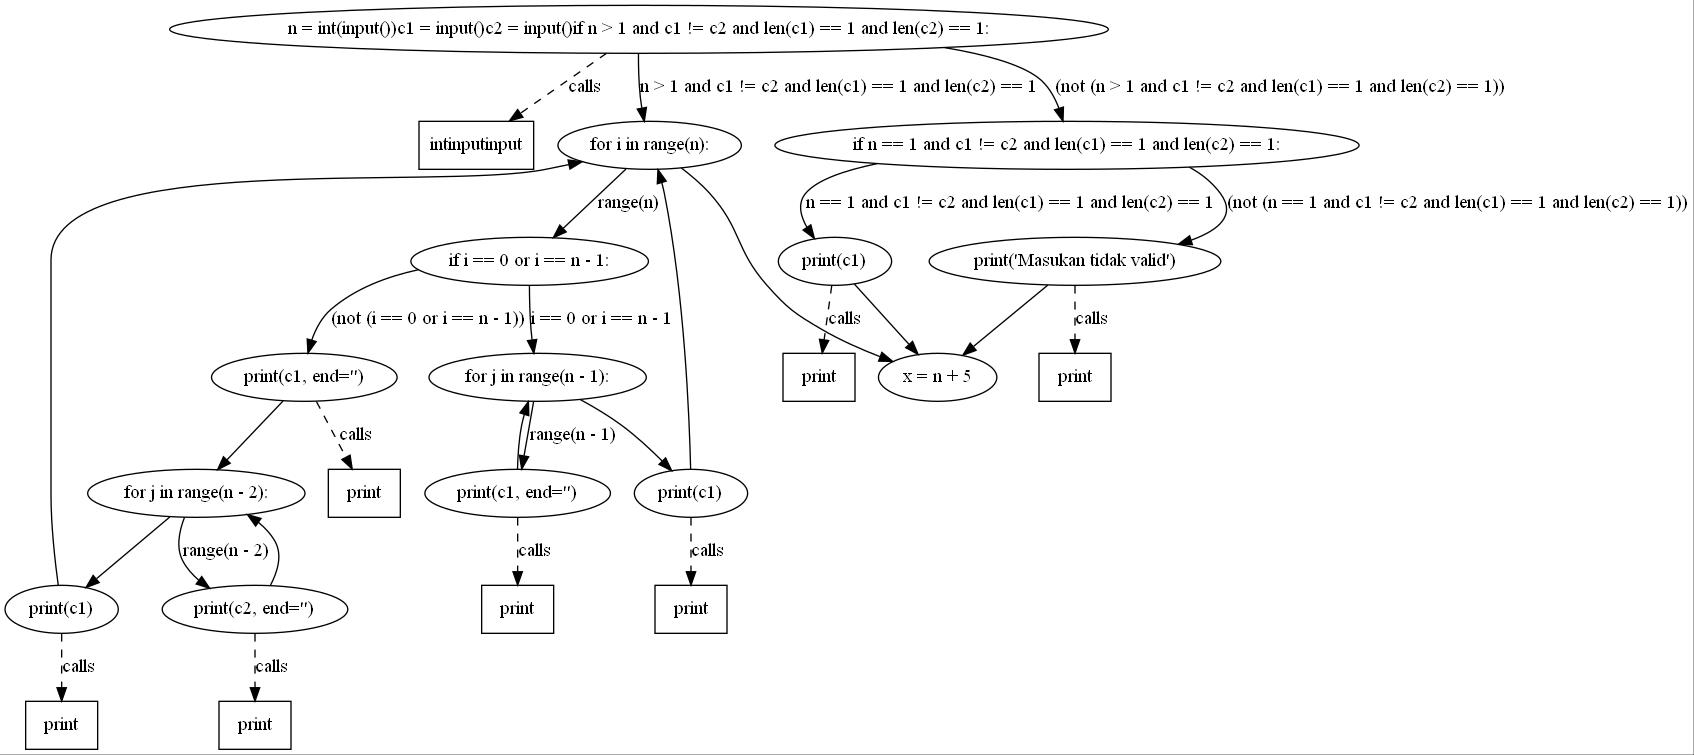
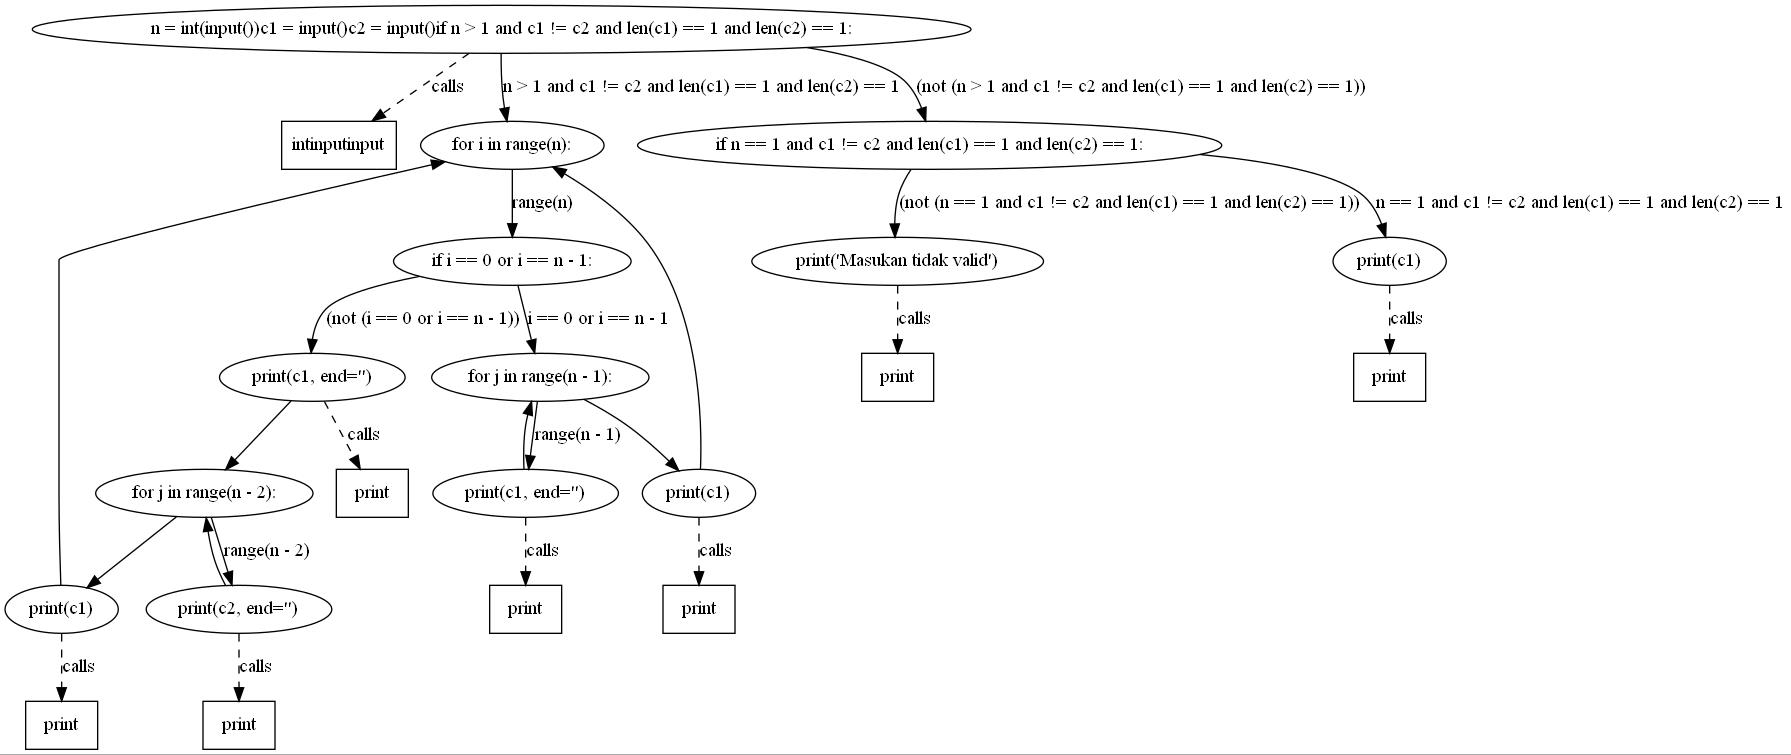
add branching propagation

diff --git a/grader/src/ged/utils/graph_collapser.py b/grader/src/ged/utils/graph_collapser.py
@@ -55,6 +55,54 @@ def collapse(input_graph: Graph):
     return compress_graph_component_id(graph)
 
 
+"""
+Propagate branching on if statement
+"""
+def propagate_branching(input_graph: Graph, node_key: str = "label"):
+    graph = collapse(input_graph)
+    last_id = 0
+    for node in graph.nodes:
+        new_info = []
+        for info in node.info:
+            new_info.append({ikey: info[ikey] for ikey in info if ikey == node_key})
+        node.set_info(new_info)
+        last_id = max(last_id, node.get_id())
+        for edge in node.out_edges:
+            last_id = max(last_id, edge.get_id())
+
+    snode = len(graph.nodes)
+    for i in range(snode):
+        erase_nodes = []
+        for node in graph.nodes:
+            if not (len(node.in_edges) == 1 and len(node.out_edges) > 1):
+                continue
+
+            parent = node.in_edges[0].from_node
+            parent_last = parent.info[-1][node_key]
+            last = node.info[-1][node_key]
+            if last != parent_last or node.get_id() == parent.get_id():
+                continue
+
+            for edge in node.out_edges:
+                onode = edge.to_node
+                new_oinfo = copy.deepcopy(node.info[:-1])
+                for oinfo in onode.info:
+                    new_oinfo.append(oinfo)
+                onode.set_info(new_oinfo)
+                new_edge = Edge(parent, onode)
+                last_id += 1
+                new_edge.set_id(last_id)
+                parent.add_edge(new_edge)
+                onode.add_edge(new_edge)
+                graph.add_edge(new_edge)
+            erase_nodes.append(node)
+
+        for erase_node in erase_nodes:
+            graph.erase_node(erase_node.get_id())
+
+    return compress_graph_component_id(graph)
+
+
 def uncollapse(input_graph: Graph):
     input_graph = compress_graph_component_id(input_graph)
     graph = Graph()

diff --git a/main.py b/main.py
@@ -4,7 +4,7 @@ from grader.src.api.functions import *
 from grader.src.cfggenerator.cfggenerator import PythonCfgGenerator
 
 from grader.src.ged.classes.general_cost_function import GeneralCostFunction
-from grader.src.ged.utils.graph_collapser import uncollapse, collapse
+from grader.src.ged.utils.graph_collapser import uncollapse, collapse, propagate_branching
 from grader.src.ged.utils.lsap_solver import Munkres
 from grader.src.ged.dfs_ged import DFSGED
 
@@ -133,4 +133,9 @@ if __name__ == '__main__':
     # test_json()
 
     # draw_graph(solutions[0], "generatedimg/solution")
-    draw_graph(jurys[2], "generatedimg/jury_delta")
+    # draw_graph(jurys[2], "generatedimg/jury_delta")
+
+    cfg = PythonCfgGenerator.generate_python_from_file(jurys[1])
+    cfg = propagate_branching(cfg, node_key="label")
+    digraph = graph_to_digraph(cfg, node_key="label")
+    digraph.render(filename="generatedimg/something", format="jpg")

diff --git a/grader/src/api/functions.py b/grader/src/api/functions.py
@@ -40,12 +40,12 @@ def edit_distance_to_similarity_score(dist, func: Callable[[float], float]=None)
     return func(1 - dist)
 
 
-def graph_to_digraph(graph: Graph) -> graphviz.Digraph:
+def graph_to_digraph(graph: Graph, node_key: str = "rawLine") -> graphviz.Digraph:
     digraph = graphviz.Digraph()
 
     edges = []
     for node in graph.nodes:
-        digraph.node(str(node.get_id()), label=f'{node.get_id()}: {[info["rawLine"] for info in node.info]}')
+        digraph.node(str(node.get_id()), label=f'{node.get_id()}: {[info[node_key] for info in node.info]}')
         for out_edge in node.out_edges:
             out_node = out_edge.to_node
             edges.append((str(node.get_id()), str(out_node.get_id())))

diff --git a/grader/src/ged/classes/graph.py b/grader/src/ged/classes/graph.py
@@ -7,6 +7,21 @@ class Graph:
         self.edges: list[Edge] = []
         self.id: str = ''
 
+    def erase_edge(self, edge_id: int):
+        self.edges = list(filter(lambda x: x.get_id() != edge_id, self.edges))
+
+    def erase_node(self, node_id: int):
+        node = self.find_node_with_id(node_id)
+        if node is None:
+            return
+
+        for edge in node.edges:
+            onode = edge.get_other_end(node)
+            onode.erase_edge(edge.get_id())
+            self.erase_edge(edge.get_id())
+
+        self.nodes = list(filter(lambda x: x.get_id() != node_id, self.nodes))
+
     def set_nodes(self, nodes: list):
         self.nodes = nodes
 

diff --git a/grader/src/ged/classes/graph_component.py b/grader/src/ged/classes/graph_component.py
@@ -45,6 +45,11 @@ class Node(GraphComponent):
             if edge.to_node.get_id() == self.get_id():
                 self.in_edges.append(edge)
 
+    def erase_edge(self, edge_id: int):
+        self.edges = list(filter(lambda x: x.get_id() != edge_id, self.edges))
+        self.out_edges = list(filter(lambda x: x.get_id() != edge_id, self.out_edges))
+        self.in_edges = list(filter(lambda x: x.get_id() != edge_id, self.in_edges))
+
     def add_edge(self, edge):
         self.edges.append(edge)
         if edge.from_node.get_id() == self.get_id():

diff --git a/datasets/segiempat/juryssolution/segiempatcontoh_delta.py b/datasets/segiempat/juryssolution/segiempatcontoh_delta.py
@@ -17,5 +17,3 @@ elif((n == 1) and (c1 != c2) and (len(c1) == 1) and (len(c2) == 1)):
     print(c1)
 else:
     print("Masukan tidak valid")
-
-x = n + 5
